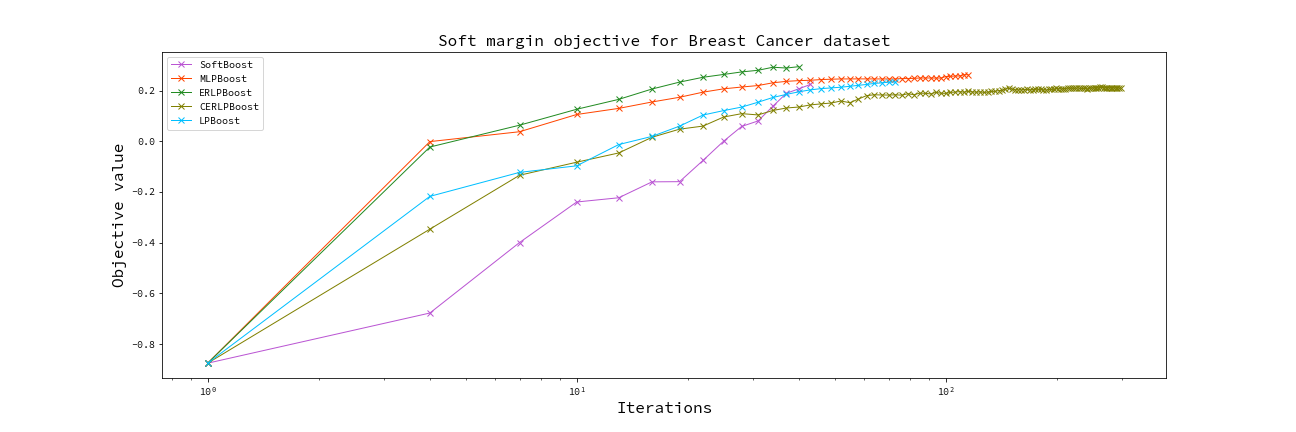
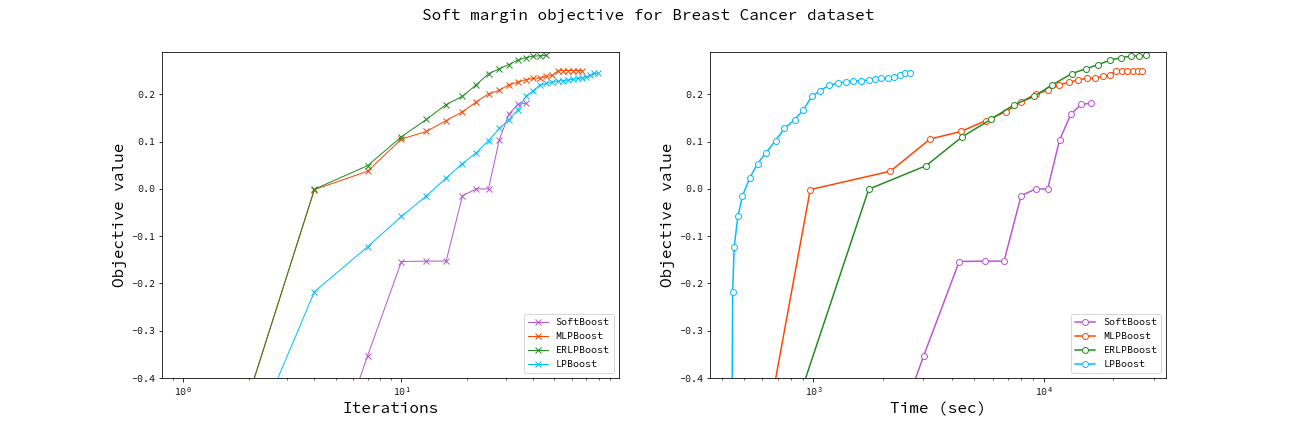
Update figures in README

diff --git a/img/example/src/main.rs b/img/example/src/main.rs
@@ -170,17 +170,17 @@ fn main() {
 
 
     // Run MLPBoost
-    let objective = SoftMarginObjective::new(nu);
-    println!("Running MLPBoost");
-    let booster = MLPBoost::init(&train)
-        .tolerance(TOLERANCE)
-        // .frank_wolfe(FWType::LineSearch)
-        .nu(nu);
-    let tree = DTree::init(&train)
-        .max_depth(2)
-        .criterion(Criterion::Entropy);
-    let mut logger = Logger::new(
-        booster, tree, objective, zero_one_loss, &train, &test
-    );
-    let _ = logger.run("mlpboost.csv");
+    // let objective = SoftMarginObjective::new(nu);
+    // println!("Running MLPBoost");
+    // let booster = MLPBoost::init(&train)
+    //     .tolerance(TOLERANCE)
+    //     // .frank_wolfe(FWType::LineSearch)
+    //     .nu(nu);
+    // let tree = DTree::init(&train)
+    //     .max_depth(2)
+    //     .criterion(Criterion::Entropy);
+    // let mut logger = Logger::new(
+    //     booster, tree, objective, zero_one_loss, &train, &test
+    // );
+    // let _ = logger.run("mlpboost.csv");
 }

diff --git a/src/booster/mlpboost/mlpboost.rs b/src/booster/mlpboost/mlpboost.rs
@@ -279,16 +279,12 @@ impl<F> MLPBoost<'_, F>
 
 
     /// Choose the better weights by some criterion.
-    fn better_weight(
-        &mut self,
-        prim: Vec<f64>,
-        seco: Vec<f64>,
-    )
+    fn better_weight(&mut self, primary: Vec<f64>, secondary: Vec<f64>)
     {
-        let prim_val = self.objval(&prim[..]);
-        let seco_val = self.objval(&seco[..]);
+        let prim_val = self.objval(&primary[..]);
+        let seco_val = self.objval(&secondary[..]);
 
-        self.weights = if prim_val >= seco_val { prim } else { seco };
+        self.weights = if prim_val >= seco_val { primary } else { secondary };
     }
 }
 

diff --git a/README.md b/README.md
@@ -20,7 +20,7 @@ Currently, I implemented the following Boosters and Weak Learners.
 
 If you invent a new boosting algorithm,
 you can introduce it by implementing `Booster` trait.
-See `cargo doc --open` for details.
+See `cargo doc -F extended --open` for details.
 
 ### Boosters
 
@@ -213,4 +213,4 @@ fn main() {
 
 Further, one can log your algorithm by implementing `Research` trait.
 
-Run `cargo doc --open` to see more information.
+Run `cargo doc -F extended --open` to see more information.
